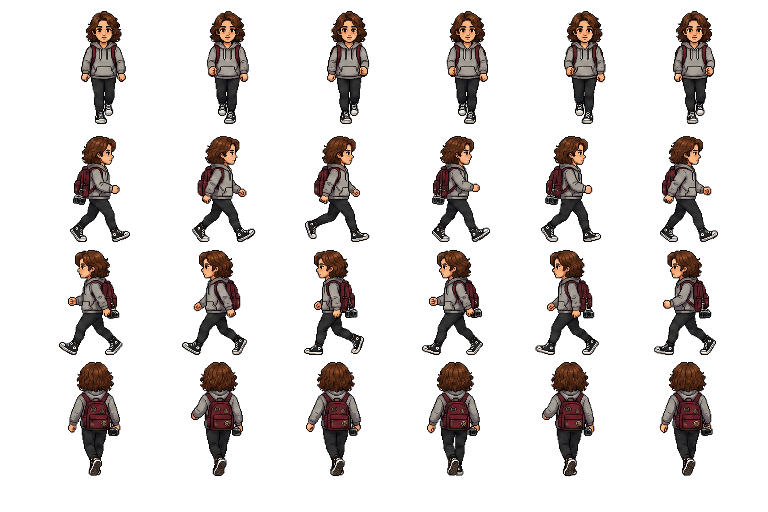
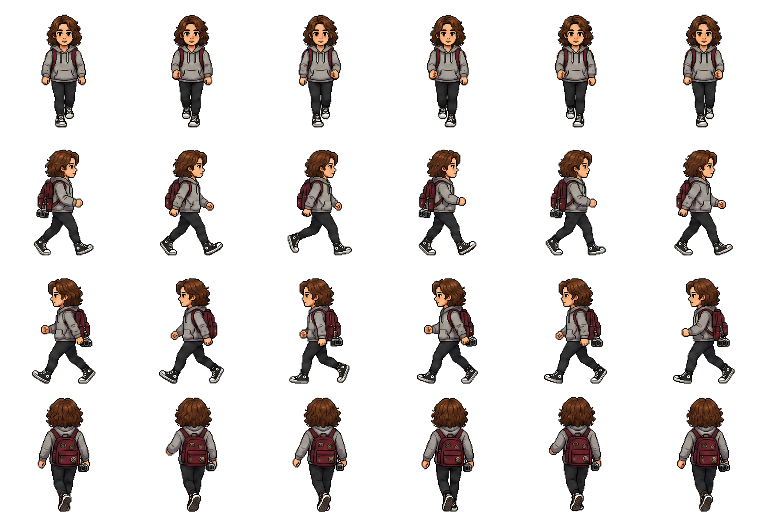
fix: impedir corte da cabeça ao subir (#17)
Realinha os 24 quadros em células exatas e renova o cache da sprite.

diff --git a/tests/runtime.test.js b/tests/runtime.test.js
@@ -115,6 +115,13 @@ facingLeft.draw(spriteContext);
 assert.equal(drawnRows.pop(), 256);
 assert.equal(facingLeft.animation.framesPerDirection, 6);
 
+const facingUp = Rua777.createPlayer(spriteAssets);
+dispatch("keydown", "KeyW");
+facingUp.update(input, 0.05, scene.obstacles);
+dispatch("keyup", "KeyW");
+facingUp.draw(spriteContext);
+assert.equal(drawnRows.pop(), 384);
+
 const diagonal = Rua777.createPlayer();
 dispatch("keydown", "KeyD");
 dispatch("keydown", "KeyS");
@@ -234,7 +241,7 @@ global.document = {
 global.requestAnimationFrame = () => 1;
 load("src/main.js");
 
-console.log("PASS 22/22");
+console.log("PASS 23/23");
 console.log("✓ scripts carregam");
 console.log("✓ entrada de toque para movimento");
 console.log("✓ entrada de toque para interação");
@@ -247,6 +254,7 @@ console.log("✓ sprite olha para a direita");
 console.log("✓ sprite olha para a esquerda");
 console.log("✓ recortes da sprite usam coordenadas inteiras");
 console.log("✓ caminhada usa seis quadros por direção");
+console.log("✓ linha completa de subida é selecionada");
 console.log("✓ diagonal normalizada");
 console.log("✓ colisão com muro");
 console.log("✓ colisão com árvore");

diff --git a/src/game.js b/src/game.js
@@ -11,7 +11,7 @@ Rua777.createGame = function createGame(canvas) {
     : { getImage() { return null; } };
 
   if (assets.loadImage) {
-    assets.loadImage("nila-walk", "./assets/characters/nila/nila-walk.png?v=2");
+    assets.loadImage("nila-walk", "./assets/characters/nila/nila-walk.png?v=3");
   }
 
   const input = Rua777.createInput();

diff --git a/index.html b/index.html
@@ -31,7 +31,7 @@
   <script src="./src/systems/dialogue.js"></script>
   <script src="./src/scenes/rua.js?v=4"></script>
   <script src="./src/entities/player.js?v=6"></script>
-  <script src="./src/game.js?v=5"></script>
+  <script src="./src/game.js?v=6"></script>
   <script src="./src/main.js?v=2"></script>
 </body>
 </html>
